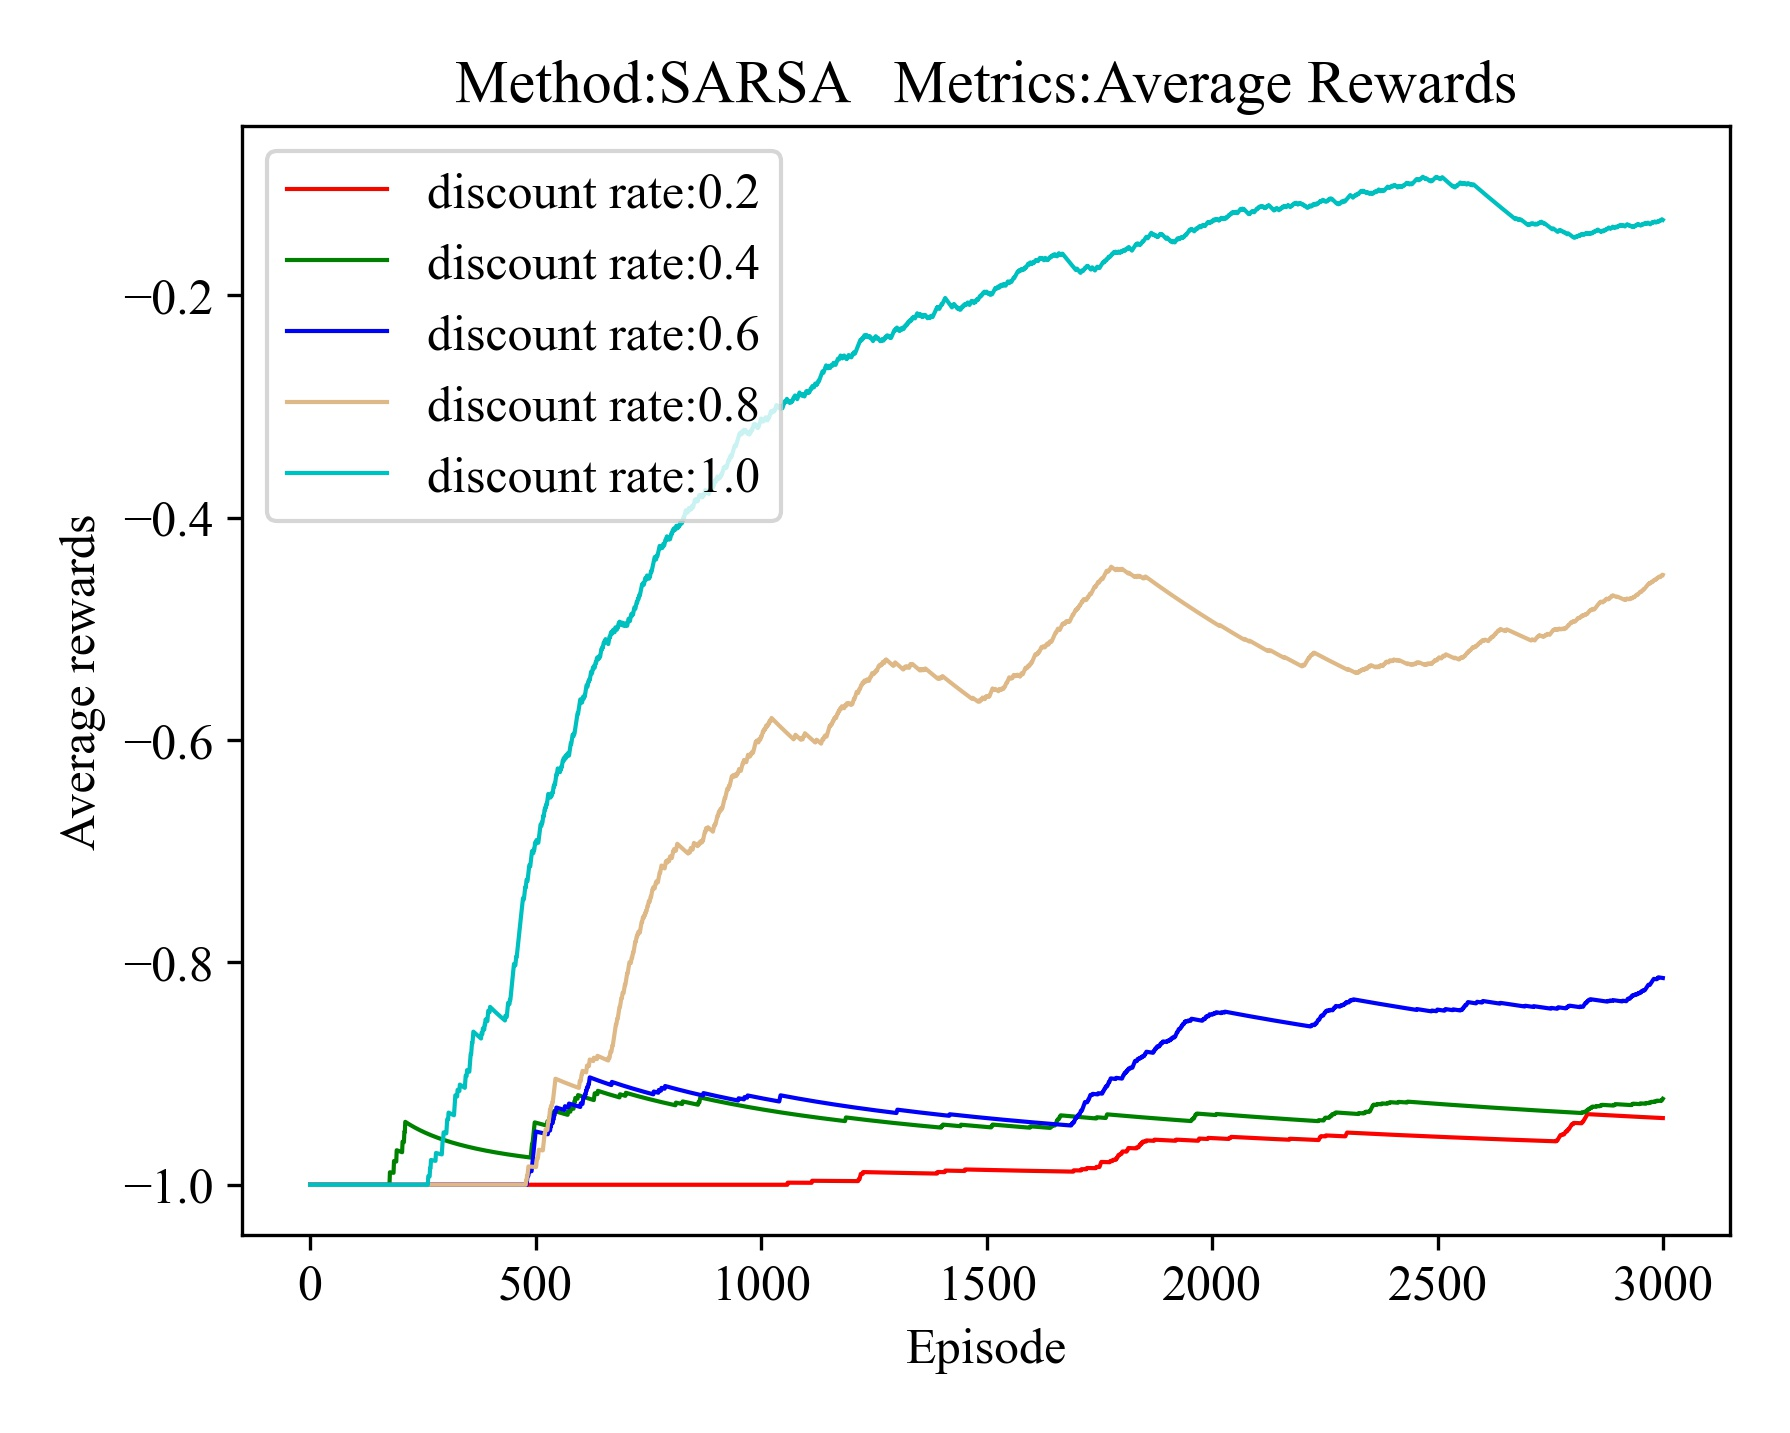
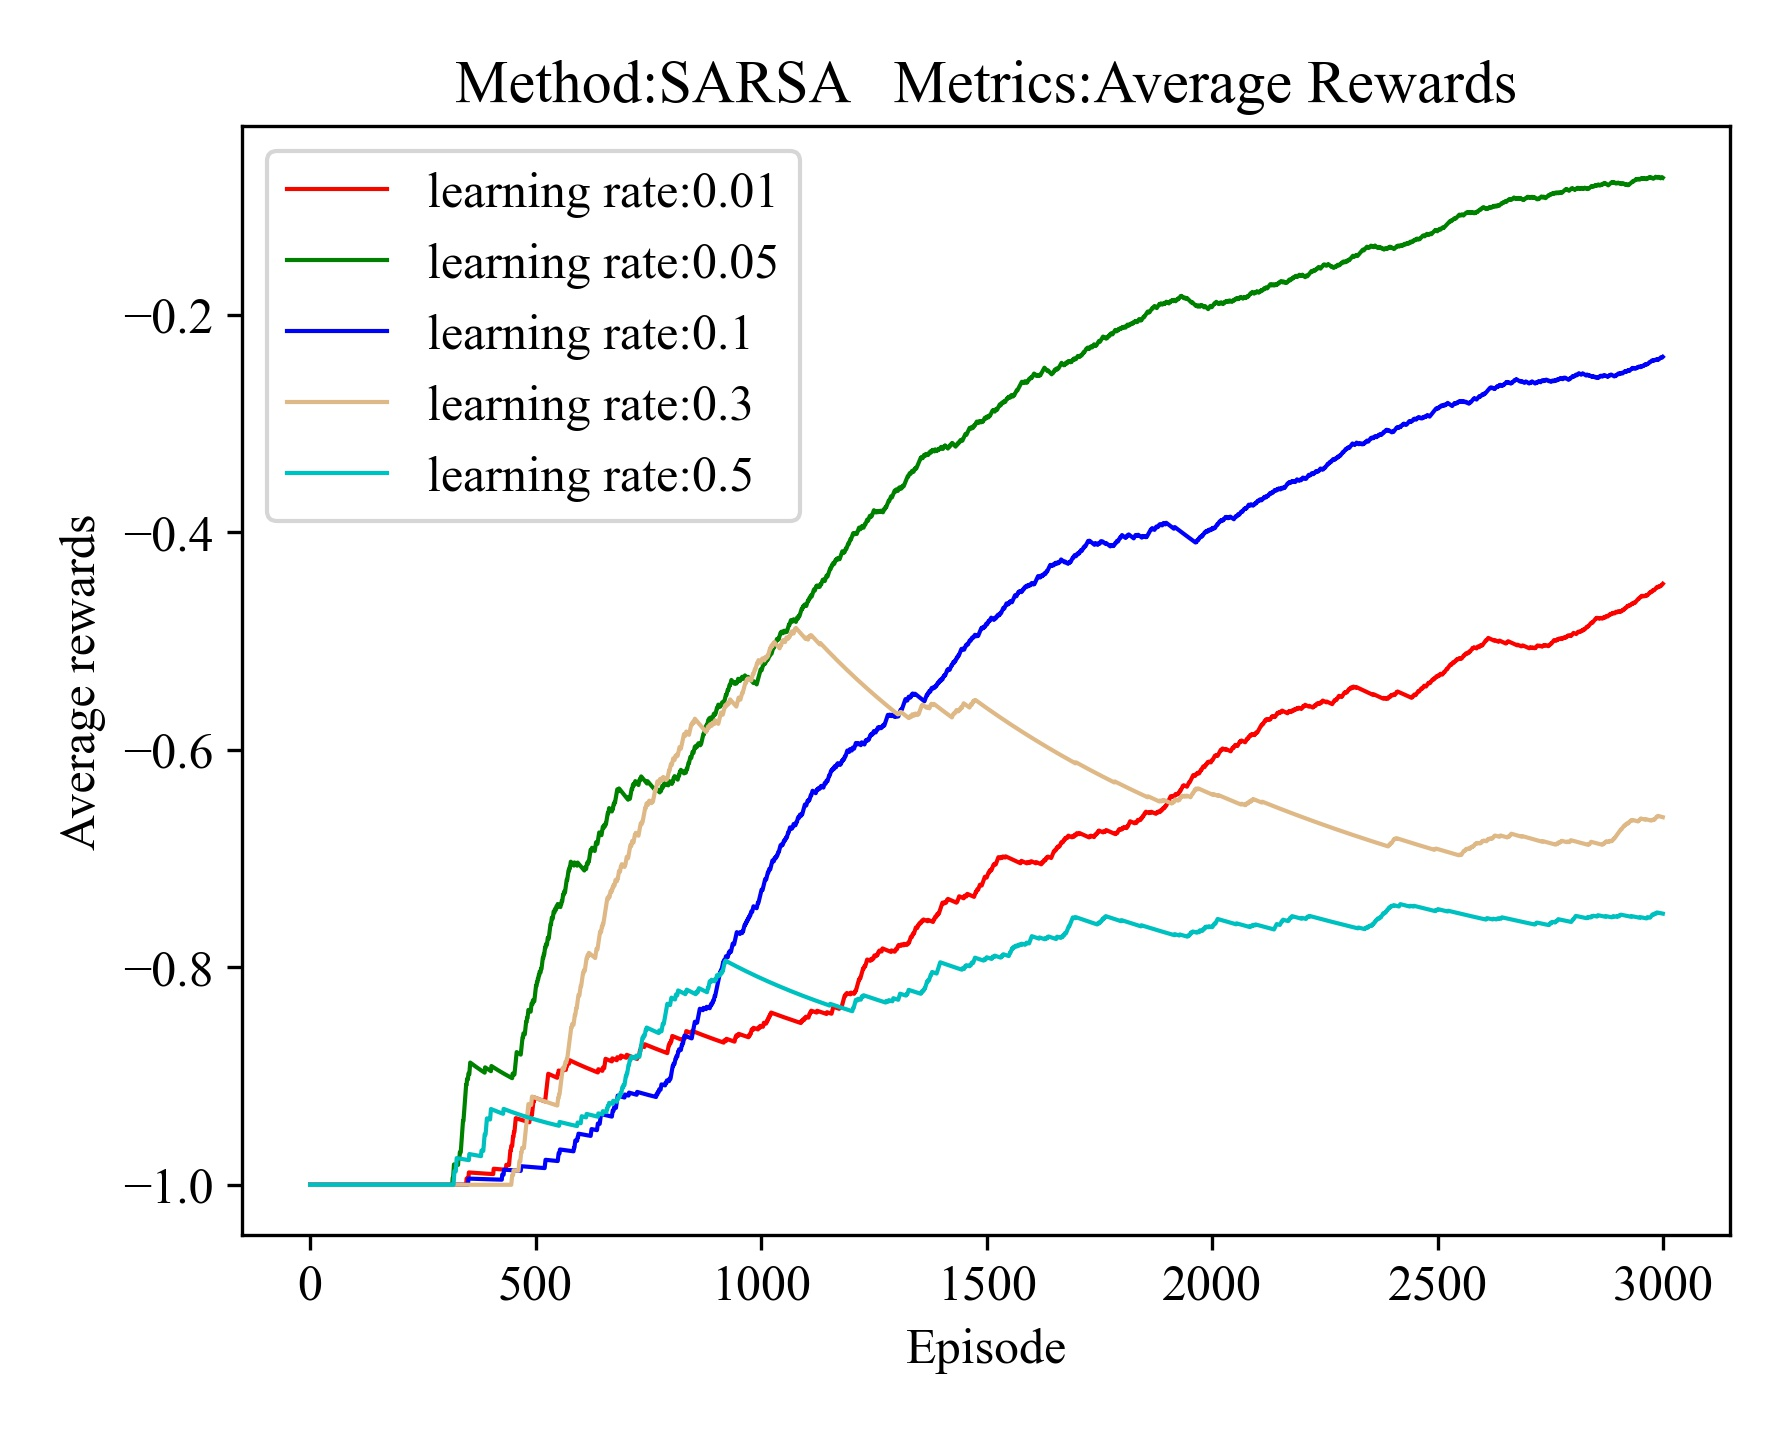
master

diff --git a/utils/Parameters.py b/utils/Parameters.py
@@ -2,8 +2,8 @@ from PIL import Image, ImageTk  # For adding images into the canvas widget
 from map.map_process import transfer_matrix_to_coordinate  # please refer to map_process for more details
 
 # Environment parameters
-MAP_NAME = 'map/map_4x4.txt'  # MAP_NAME could be selected within 'map/map_10x10.txt' and 'map/map_4x4.txt'
-MAP_SIZE = '4x4'  # MAP_SIZE used in plot, should in line with MAP_NAME, has options of '10x10' and '4x4'
+MAP_NAME = 'map/map_10x10.txt'  # MAP_NAME could be selected within 'map/map_10x10.txt' and 'map/map_4x4.txt'
+MAP_SIZE = '10x10'  # MAP_SIZE used in plot, should in line with MAP_NAME, has options of '10x10' and '4x4'
 GRID_SIZE, map_matrix, START, ICE_HOLE, FRISBEE, MASK = transfer_matrix_to_coordinate(MAP_NAME)
 PIXELS = 40
 x_start = START[0][0]
@@ -25,7 +25,7 @@ STATES_SPACE = ENV_HEIGHT * ENV_WIDTH  # (int): the total possible states in the
 # NUM_STEPS restrict the maximum steps for Monte Carlo Method in single episode
 NUM_STEPS = 150
 # NUM_EPISODES is the episodes that involved in training process
-NUM_EPISODES = 1000
+NUM_EPISODES = 3000
 # LEARNING_RATE is the hyper-parameter used in Q-Learning, SARSA and SARSA(lambda)
 LEARNING_RATE = 0.1
 # GAMMA is the hyper-parameter illustrate the discount rate of return
@@ -40,7 +40,7 @@ LAMBDA = 0.9
 SMOOTH_SIZE = 10
 # TUNING_TASK_LIST is the list involved in the 3 tasks, and TASK is the current task
 TUNING_TASK_LIST = ['Tuning Learning Rate', 'Tuning Discount Rate', 'Tuning Greedy Policy']
-TASK = 'Tuning Greedy Policy'
+TASK = 'Tuning Learning Rate'
 
 OVERALL_TASK_LIST = ['Run Three Methods', 'Compare Three Methods', 'Tuning Q Learning', 'Tuning SARSA']
 OVERALL_TASK = 'Tuning Q Learning'
